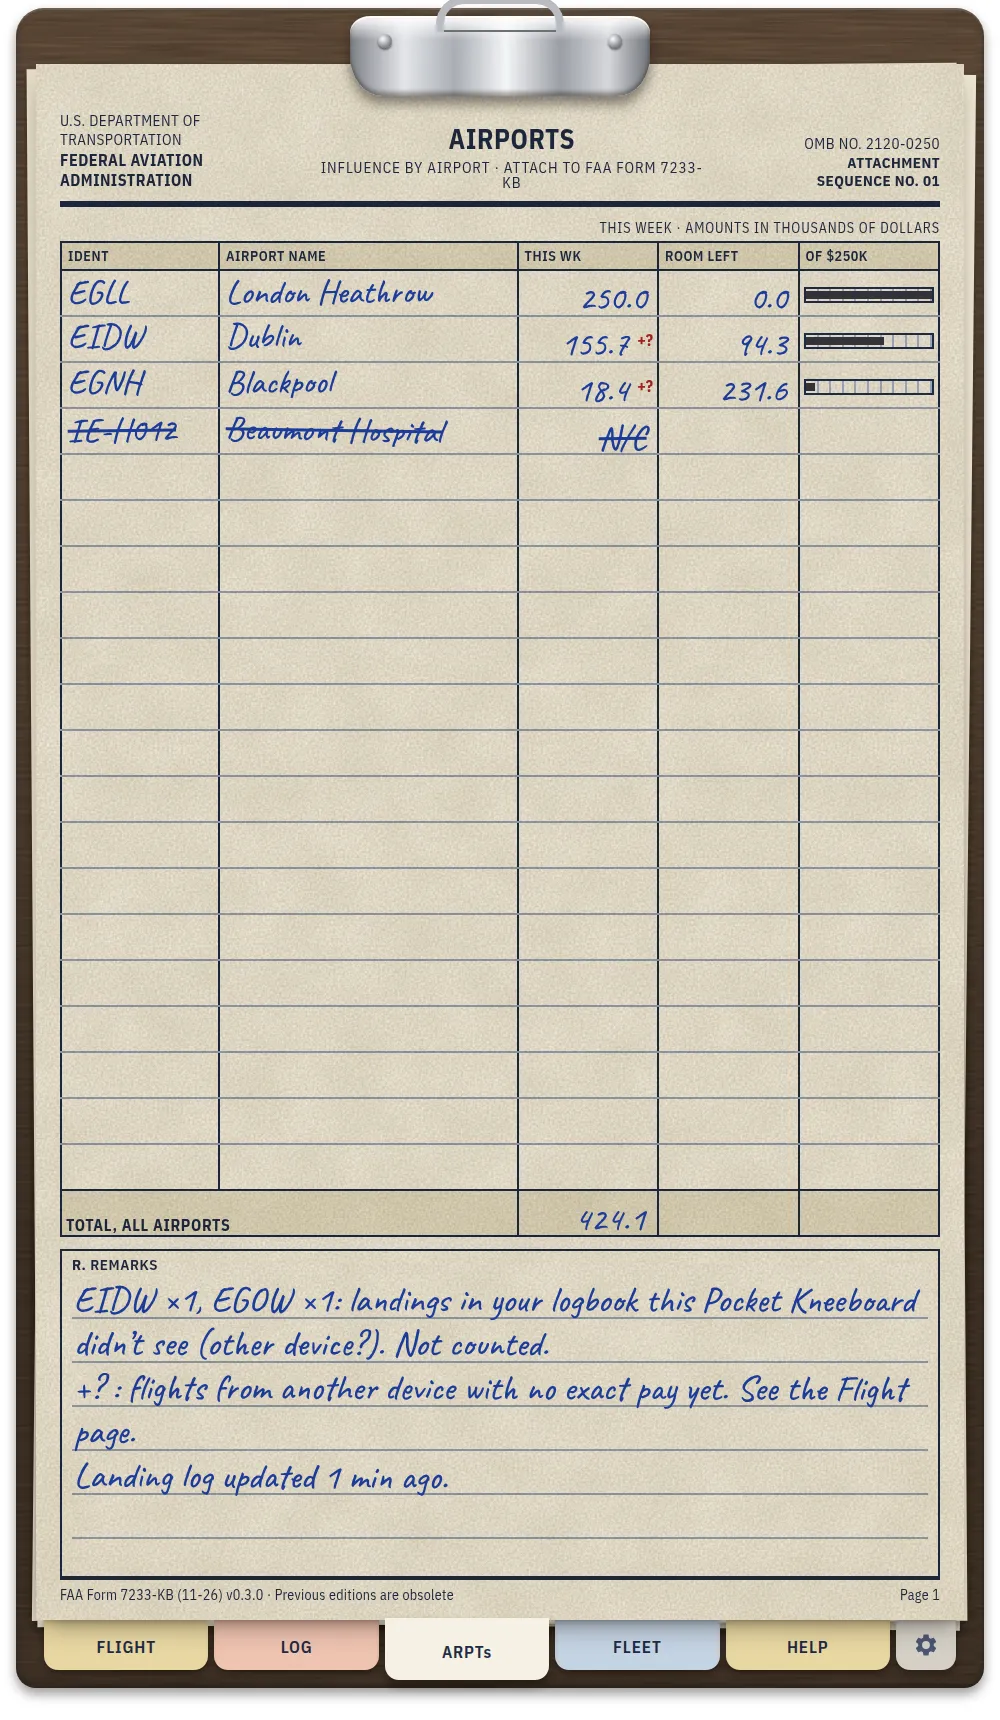
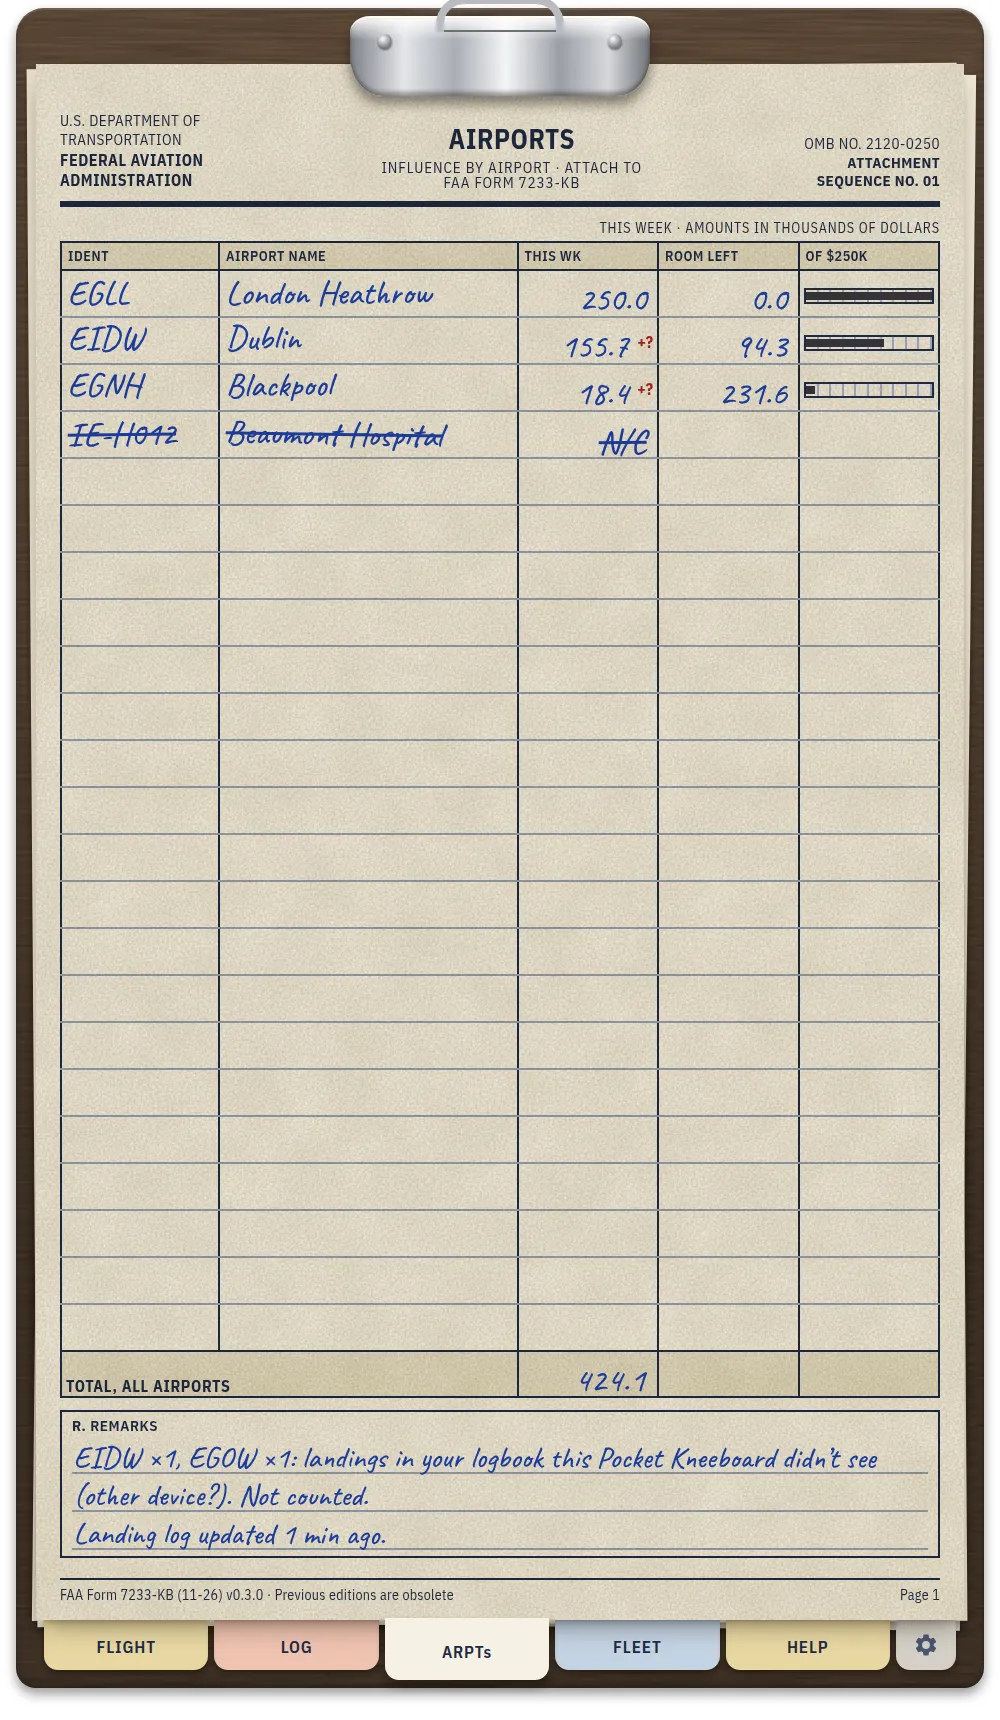
Pocket Kneeboard 0.3.0
The changelog and screenshots for the changes since bf6d2ab, which hadn't been tagged yet.

diff --git a/CHANGELOG.md b/CHANGELOG.md
@@ -13,8 +13,9 @@ All notable changes to Pocket Kneeboard. Versions follow [Semantic Versioning](h
 - **Settings**, behind the gear tab: Print size and the landing log's URL moved here, and
   **Backup and restore** saves all your records as a file or to the clipboard, and loads them back,
   for example into another browser.
-- A page too long for one sheet continues on another. Turn it at the curled corner, where "next"
-  or "prev" is scribbled with an arrow.
+- A page too long for one sheet continues on another, under the same heading and with the same
+  remarks. Turn it at the curled corner, where "next" or "prev" is scribbled with an arrow. Each
+  tab opens on the sheet you left it on.
 
 ### Changed
 
@@ -24,6 +25,12 @@ All notable changes to Pocket Kneeboard. Versions follow [Semantic Versioning](h
 - Schedule A is now **Airports**.
 - The tabs have no numbers, and each page is numbered within its tab: "Page 1", or "Page 2 of 4".
 - The bubbles a job would fill are shaded in pencil.
+- Remarks are written smaller, and say only what's about the page. A list's remarks get as many
+  lines as they need, and its table fills the rest of the sheet with blank lines.
+- What each mark (such as `*`, `+?` and `≈`) and column means is on the Help page, under
+  **Marks and columns**.
+- Help explains how formation flights count: each pilot's own base pay, with the convoy bonus in
+  Net only.
 - In the air, your origin's standings are read again if you last landed there on another device.
 
 ### Fixed
@@ -33,7 +40,15 @@ All notable changes to Pocket Kneeboard. Versions follow [Semantic Versioning](h
 - The landing log script reads an airport's total again when it hasn't risen yet, for up to 15
   minutes. Before, many landings were logged as adding $0.
   `server/repair_zero_landings.py` fixes a log written before then: those landings become
-  "pay not known", and landings whose combined rise you know can share it.
+  "pay not known", and landings whose combined rise you know can share it. Give it every company
+  with `--co`, once for each.
+- Fleet's remarks were cut off when the list filled the sheet.
+- A landing of yours could show in the remarks as a rise that wasn't yours ("$0 logged as mine"),
+  when the game showed the new total before the landing's report arrived. From a game tab in the
+  background, the report can come many minutes after the touchdown.
+- Restoring a backup did nothing the first time you chose a file.
+- A backup copied through a clipboard that drops some characters (such as a remote desktop's) no
+  longer breaks, and a pasted backup that lost characters says so.
 
 ## 0.2.0 (2026-11-16)
 
